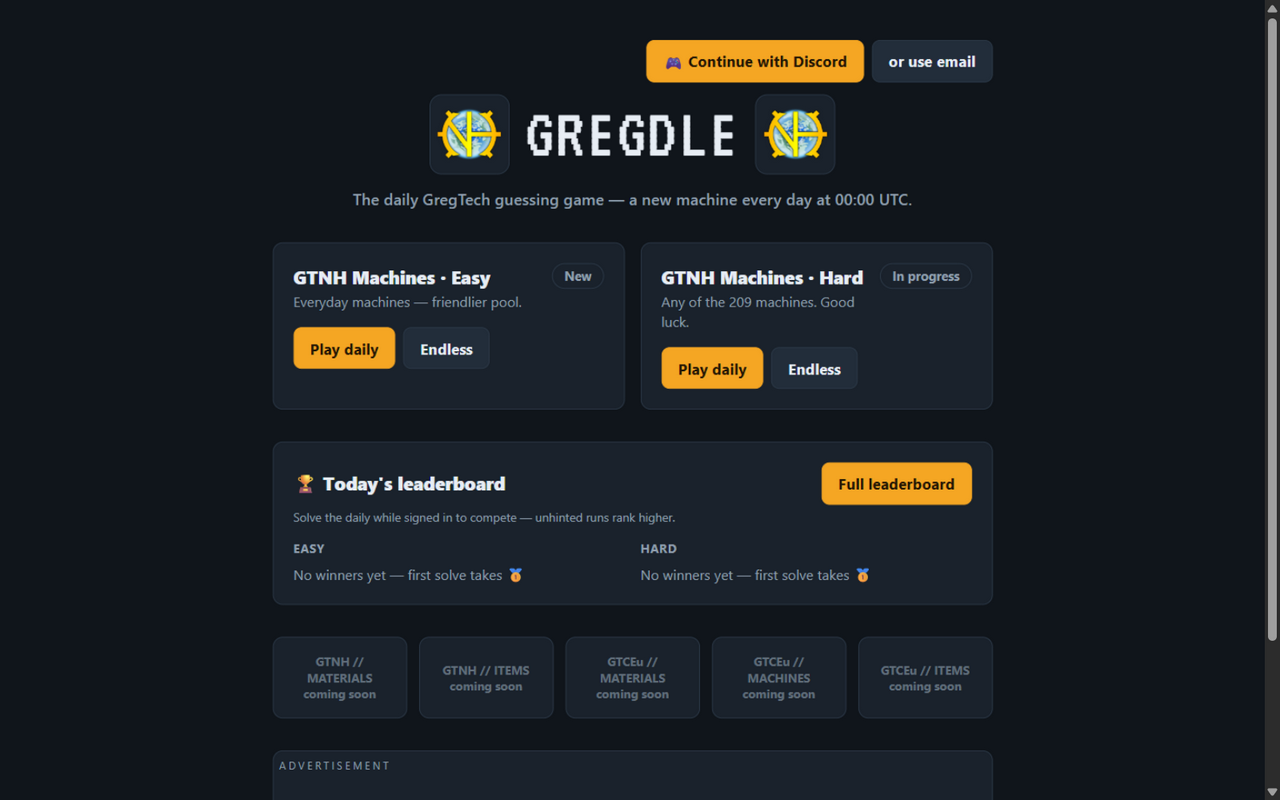
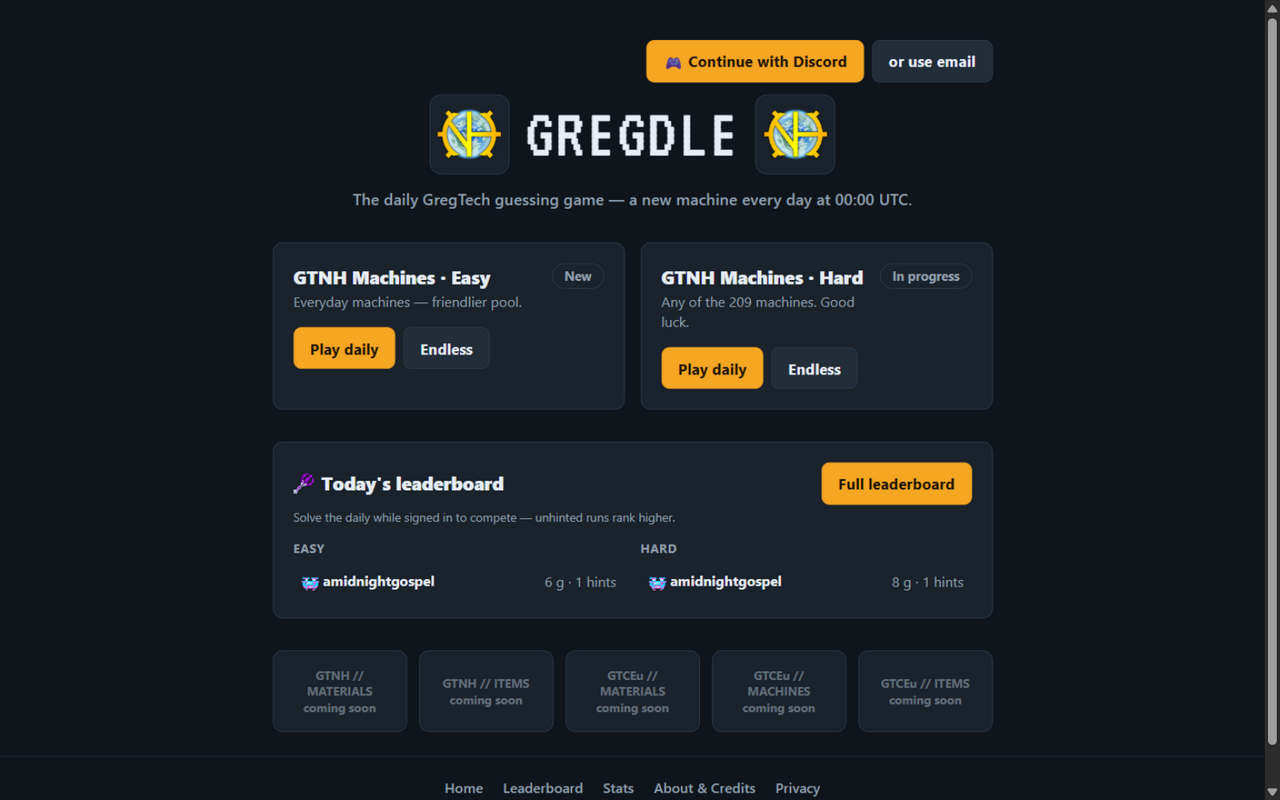
marketing: remake Reddit post for the v2 feature set + fresh screenshots

diff --git a/marketing/reddit-post.md b/marketing/reddit-post.md
@@ -1,65 +1,71 @@
-# Gregdle — Reddit launch post
+# Gregdle — Reddit launch post (v2, remade 2026-11-04)
 
-Screenshots to attach: `marketing/reddit-play.png` (game board — attach this one as the post image)
-and `marketing/reddit-home.png` (home page — drop in the comments or use as 2nd image).
+Screenshots (retaken with the current UI):
+- `marketing/reddit-play.png` — the game board mid-guess (ATTACH AS THE POST IMAGE)
+- `marketing/reddit-home.png` — home with the top-10 leaderboard + streak fire
 
-## Title options (pick one)
+Site: https://gregdle.stranger3012.workers.dev (custom domain gregdle.carletti.work coming)
+Repo: https://github.com/absxl/Gregdle (must be public before posting)
 
-1. I made a Loldle-style daily guessing game for GregTech — guess the machine from its attributes
-2. Gregdle — a daily GregTech machine guessing game (like Loldle, but with multiblocks)
-3. Wordle, but it's a GregTech machine — I built a free daily guessing game for GTNH players
+## Title options
 
-## Post body (r/feedthebeast — markdown)
+1. I made a daily guessing game for GregTech — guess the machine from its attributes (like Loldle, but multiblocks)
+2. Gregdle — Wordle for GTNH. 209 machines, daily puzzles, streaks with actual Minecraft fire
+3. After too many hours in GTNH I built a Loldle for it — free, no ads, open source
 
-Hey everyone! I've been playing GTNH for years and love the daily-guessing-game format
-(Loldle, Wordle...), so I built one for GregTech: **[Gregdle](https://gregdle.stranger3012.workers.dev)**
+## Post body (r/feedthebeast)
 
-**How it works:** every day at 00:00 UTC one machine is hidden. You guess machines by
-name (search shows each machine's tier, structure, size and function to help you), and
-after every guess you get a grid telling you how close you are:
+Hi r/feedthebeast — long-time GTNH player here. I kept seeing Loldle/Wordle clones for every game
+except the one that actually deserved one, so I built **Gregdle**: a daily GregTech machine
+guessing game.
 
-- ⚡ Tier — green if right, ▲▼ if the answer is higher/lower in the tech tree
-- 🧱 Structure — single block or multiblock
-- 📐 Size — bigger/smaller by volume
-- 🔧 Function — 12 generic categories (power gen, ore processing, smelting/alloying...)
-- Plus energy hatches and extras (overclocks etc.)
+**How a round works:** every day at 00:00 UTC one machine is hidden. Type a guess and the grid
+tells you how close you are:
 
-**Features:**
+- **Tier** — green if right, ▲▼ if the answer is higher/lower in the tech tree
+- **Structure / Size** — single block or multiblock, bigger or smaller
+- **Function** — 12 buckets (power gen, ore processing, smelting/alloying, fluid/chem…)
+- **Energy & extras** — hatches, overclocks and friends
 
-- Daily in two difficulties — Easy (everyday machines) and Hard (all 209 from the GTNH wiki)
-- Endless mode for practice
-- Hints at 4 and 8 wrong guesses — the second one shows you the machine's texture
-- Sign in with Discord (or email) to get on the daily leaderboard — unhinted runs rank higher
-- Share your result as an emoji grid or a PNG image, no spoilers
-- Works on mobile, no install, free, no pop-ups ever
-- All 209 machines and attributes were scraped from the GTNH wiki (every entry links back
-  to its wiki page)
+The search helps without spoiling: as you type, every suggestion shows its tier, structure,
+size and function (Minedle-style), so you can play from knowledge instead of alt-tabbing to
+the wiki.
 
-It's open source if you want to see how it works or fix my mistakes:
+**What's in it:**
+
+- Daily in **Easy** (everyday machines) and **Hard** (all 209 from the GTNH wiki)
+- **Endless mode** for practice
+- Hints at 4 and 8 wrong guesses — the second one literally shows you the machine's texture
+- Sign in with **Discord** → daily leaderboard (top 10 on the home page), public profiles,
+  streaks with a Minecraft fire animation, win distributions
+- Share your run as an **emoji grid or a rendered PNG** — spoiler-free either way
+- Guess rows show the machine's actual texture from the wiki; tap to enlarge
+
+**The boring-but-nice part:** it's free, there are **no ads**, no pop-ups, no install — it's a
+Next.js app on Cloudflare with a Supabase backend, and the whole thing is open source (MIT),
+including the scraper and the 209-machine dataset with per-entry links back to the wiki pages:
 https://github.com/absxl/Gregdle
 
-GTCEu datasets (materials/machines/items) are next — the data pipeline is already built.
+All 209 machines and their attributes were scraped from the GTNH wiki (GTNH 2.9 snapshot) —
+every result links back to the wiki page of the machine, so losing also teaches you something.
 
-Feedback very welcome, especially on difficulty balance — I tuned it to be kind to
-non-veterans (that's what the Easy pool is for), but Hard is genuinely hard.
+GTCEu datasets are next (the pipeline is already built, it's mostly wiki-formatting work).
 
-## Where to post
+Difficulty feedback very welcome — Easy is tuned for people who just reached LV, Hard is
+honestly hard. If you win, post your grid.
 
-| Subreddit                                    | Notes                                                                                                                           |
-| -------------------------------------------- | ------------------------------------------------------------------------------------------------------------------------------- |
-| r/feedthebeast                               | Best fit. Flair: "Showcase"/"Modded Discussion" per their rules. Image post with the board screenshot, link in body + comments. |
-| r/GTNH                                       | GTNH-specific — mention it's GTNH 2.9 data. Check rules/sidebar first; smaller but perfectly targeted.                          |
-| r/gregtech                                   | Small; fine to crosspost a day later.                                                                                           |
-| GTNH Discord (#community or similar channel) | One message, board screenshot + link. Huge concentration of exactly the right players.                                          |
+## Shorter variant (for r/GTNH or Discord)
 
-## Posting tips (Reddit-specific)
+Made a Loldle-style daily for GTNH: **Gregdle** — one hidden machine per day, guess from
+tier/structure/size/function with ▲▼ hints, Easy & Hard dailies, endless mode, Discord login
+with leaderboard + profiles, Minecraft-fire streaks, spoiler-free sharing. Free, no ads, open
+source (MIT). 209 machines scraped from the wiki, every result links back to its wiki page.
+https://gregdle.stranger3012.workers.dev
 
-- **Attach the screenshot as an image post** and put the link in the body AND first
-  comment (image posts get ~5-10x the reach of link posts; some subs auto-block links).
-- Don't post to all subs within the same hour — space them out by several hours/days;
-  Reddit's spam filters and users both dislike it.
-- Stick around and answer comments for the first 2-3 hours — that's what makes the
-  algorithm push a post.
-- If someone asks "why should I care" — the honest hook is: it's a fun daily 2-minute
-  brain teaser that also teaches the tech tree (the ▲▼ tier arrows are basically a
-  progression cheat sheet).
+## Posting checklist
+
+1. Repo PUBLIC first (the post links it), old `m0-setup` branch deleted
+2. Image post with `reddit-play.png`, link in body AND first comment
+3. r/feedthebeast first (flair: Showcase), then r/GTNH + GTNH Discord hours later
+4. Stick around for comments the first 2 hours — reply to every question
+5. If someone posts a win grid in the comments, upvote and reply with yours
